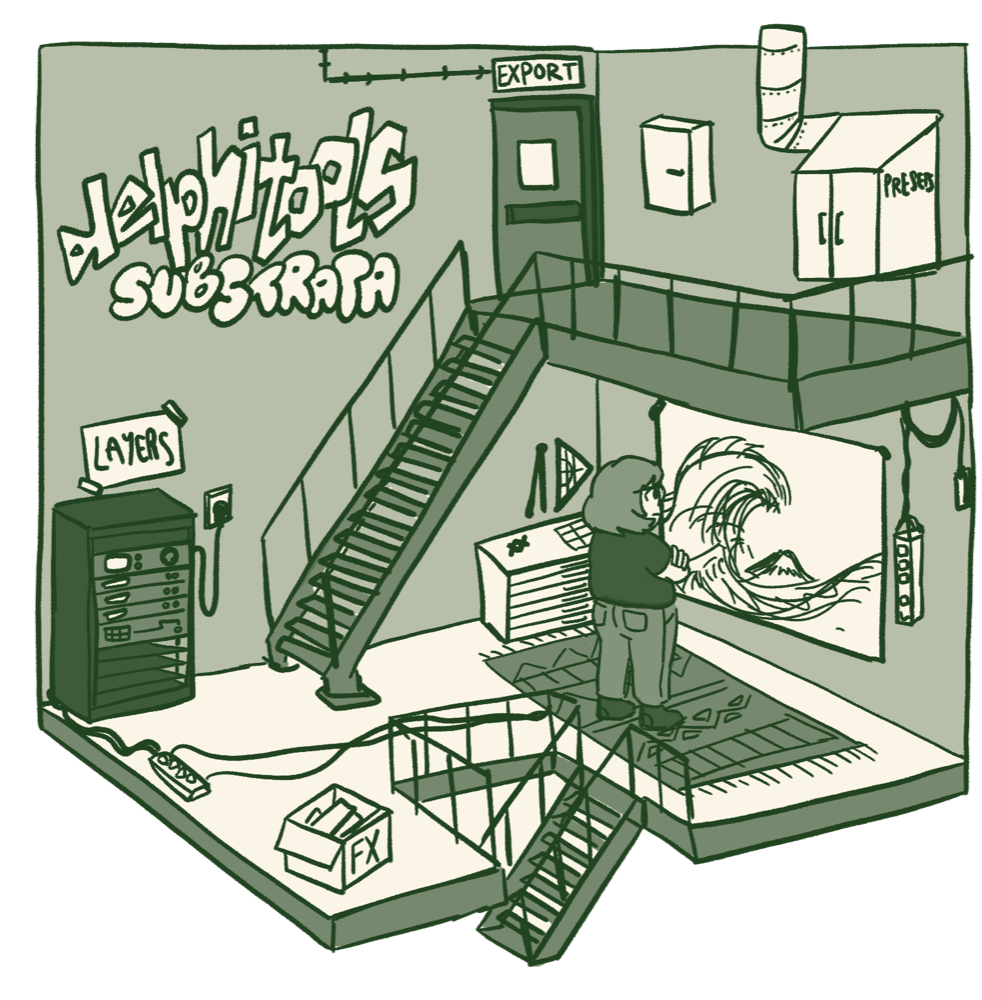
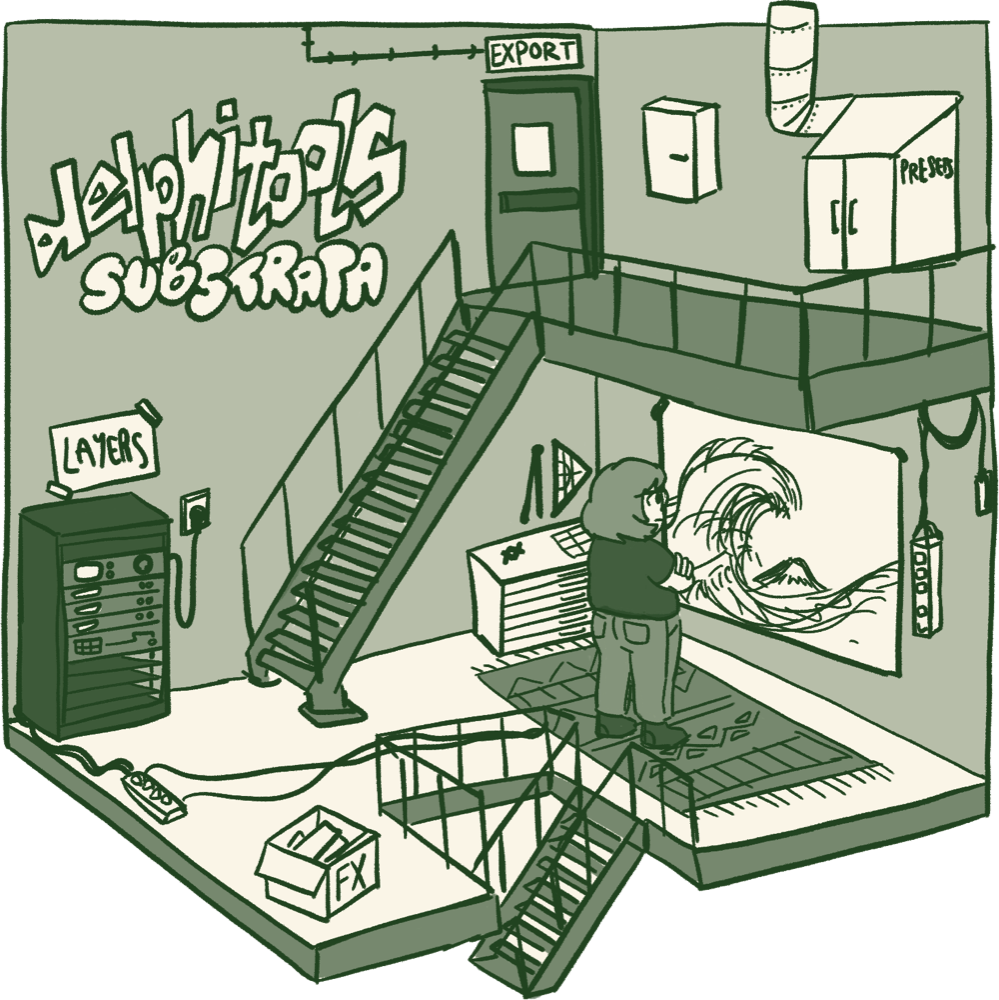
feat(substrata): slide-2 illustration + delphi-clip pass on both onboarding images
Ruby's server-to-laptop diagram (DELPHI'S SERVER → YOUR COMPUTER,
'NOTHING UPLOADED' crossed out) lands on the local/speed slide. Both
drawings re-processed through the delphi CLI's clip (trim transparent
edges) then resized to 1000px — workshop 999x1000, local 1000x731.
Also includes Ruby's greeting rewrite (capability list + 'calibrate your
excitement') and her max-h-100 sizing.

diff --git a/components/substrata/modals/onboarding-modal.tsx b/components/substrata/modals/onboarding-modal.tsx
@@ -60,19 +60,29 @@ export function OnboardingModal() {
       <img
         src="/substrata/onboarding/workshop.png"
         alt=""
-        width={982}
+        width={999}
         height={1000}
-        className="mx-auto -mt-1 h-auto max-h-[300px] w-auto"
+        className="mx-auto -mt-1 h-auto max-h-100 w-auto"
       />
       <p className="leading-relaxed">
-        Hi, this is Substrata, the delphitools image editor. It does effects, layers, filters, .
+        Hi, this is Substrata, the delphitools image editor. It does effects, layers, filters, film sims, cropping, text and more.
       </p>
-      <p className="leading-relaxed">We&rsquo;re still in beta — let me show you around.</p>
+      <p className="leading-relaxed">It's still in early access, so calibrate your excitement.</p>
     </div>,
-    <p key="local" className="leading-relaxed">
-      Everything is local, everything runs on your browser. This means that it might be slow on
-      low-end machines.
-    </p>,
+    <div key="local" className="space-y-3">
+      {/* eslint-disable-next-line @next/next/no-img-element -- static export, unoptimized anyway */}
+      <img
+        src="/substrata/onboarding/local.png"
+        alt=""
+        width={1000}
+        height={731}
+        className="mx-auto -mt-1 h-auto max-h-100 w-auto"
+      />
+      <p className="leading-relaxed">
+        Everything is local, everything runs on your browser. This means that it might be slow
+        on low-end machines.
+      </p>
+    </div>,
     <div key="private" className="space-y-3">
       <p className="leading-relaxed">
         Because this is in your browser, it&rsquo;s entirely private by design. Nothing of your
